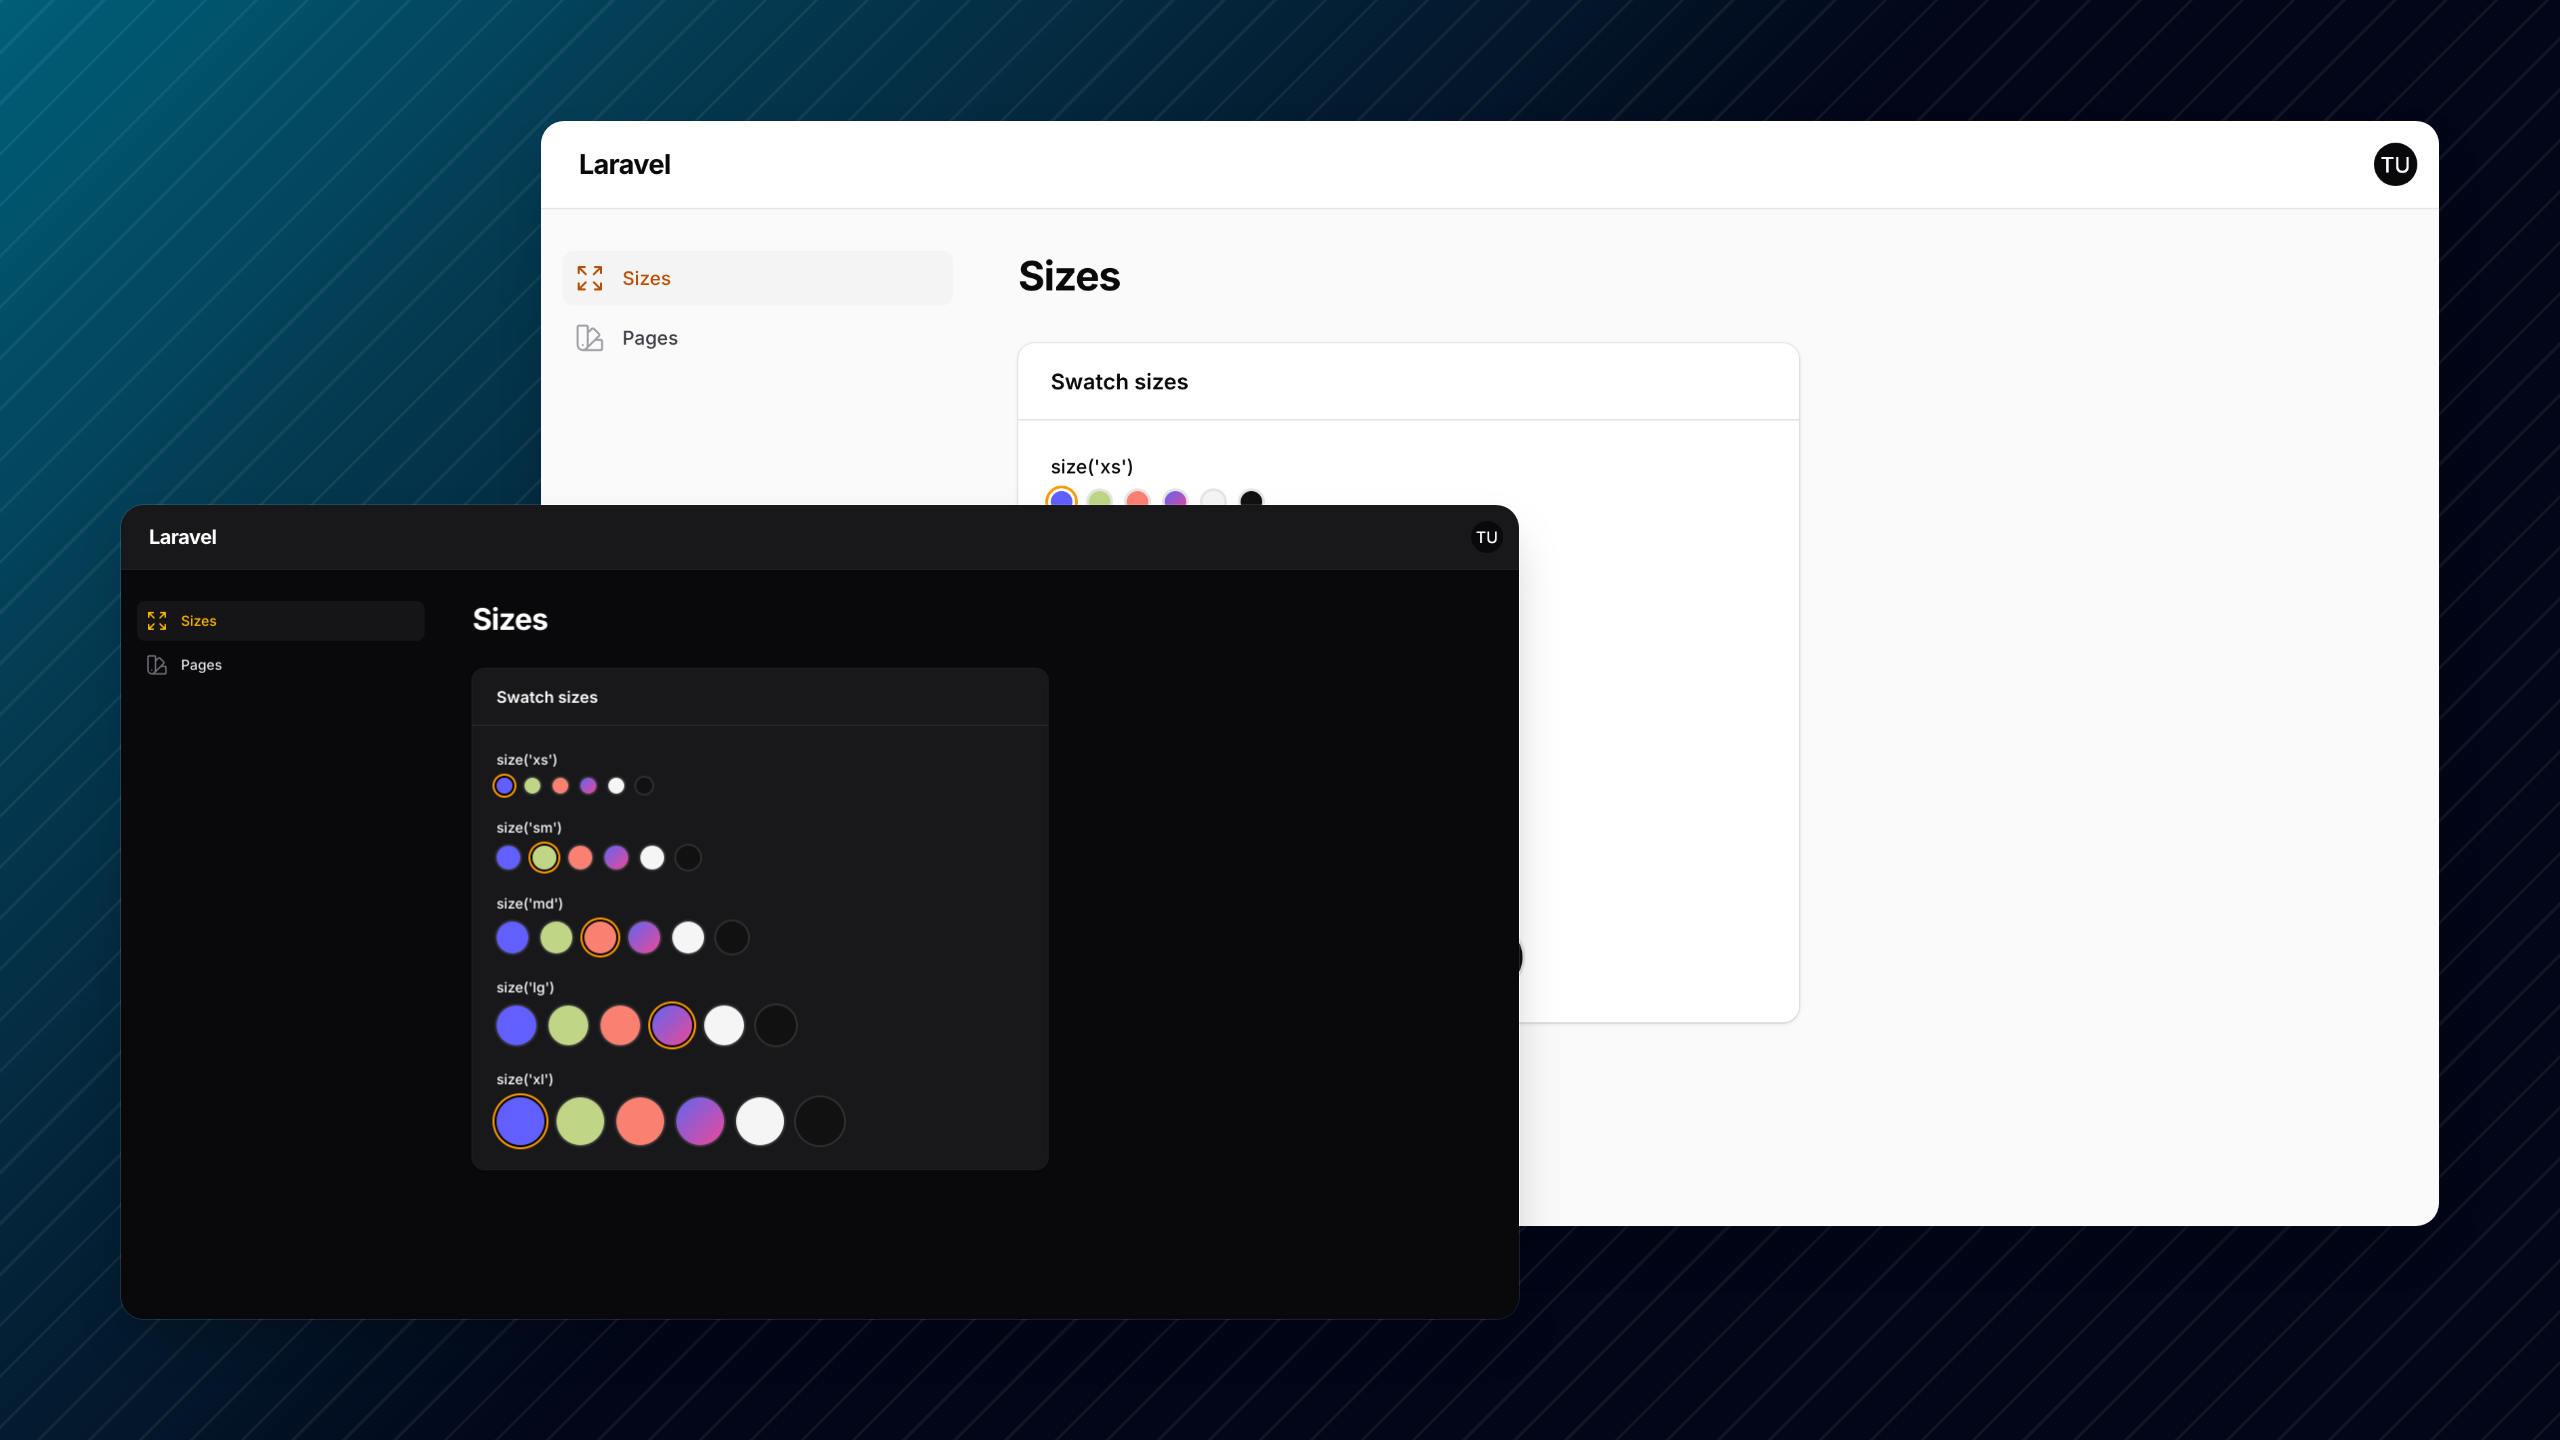
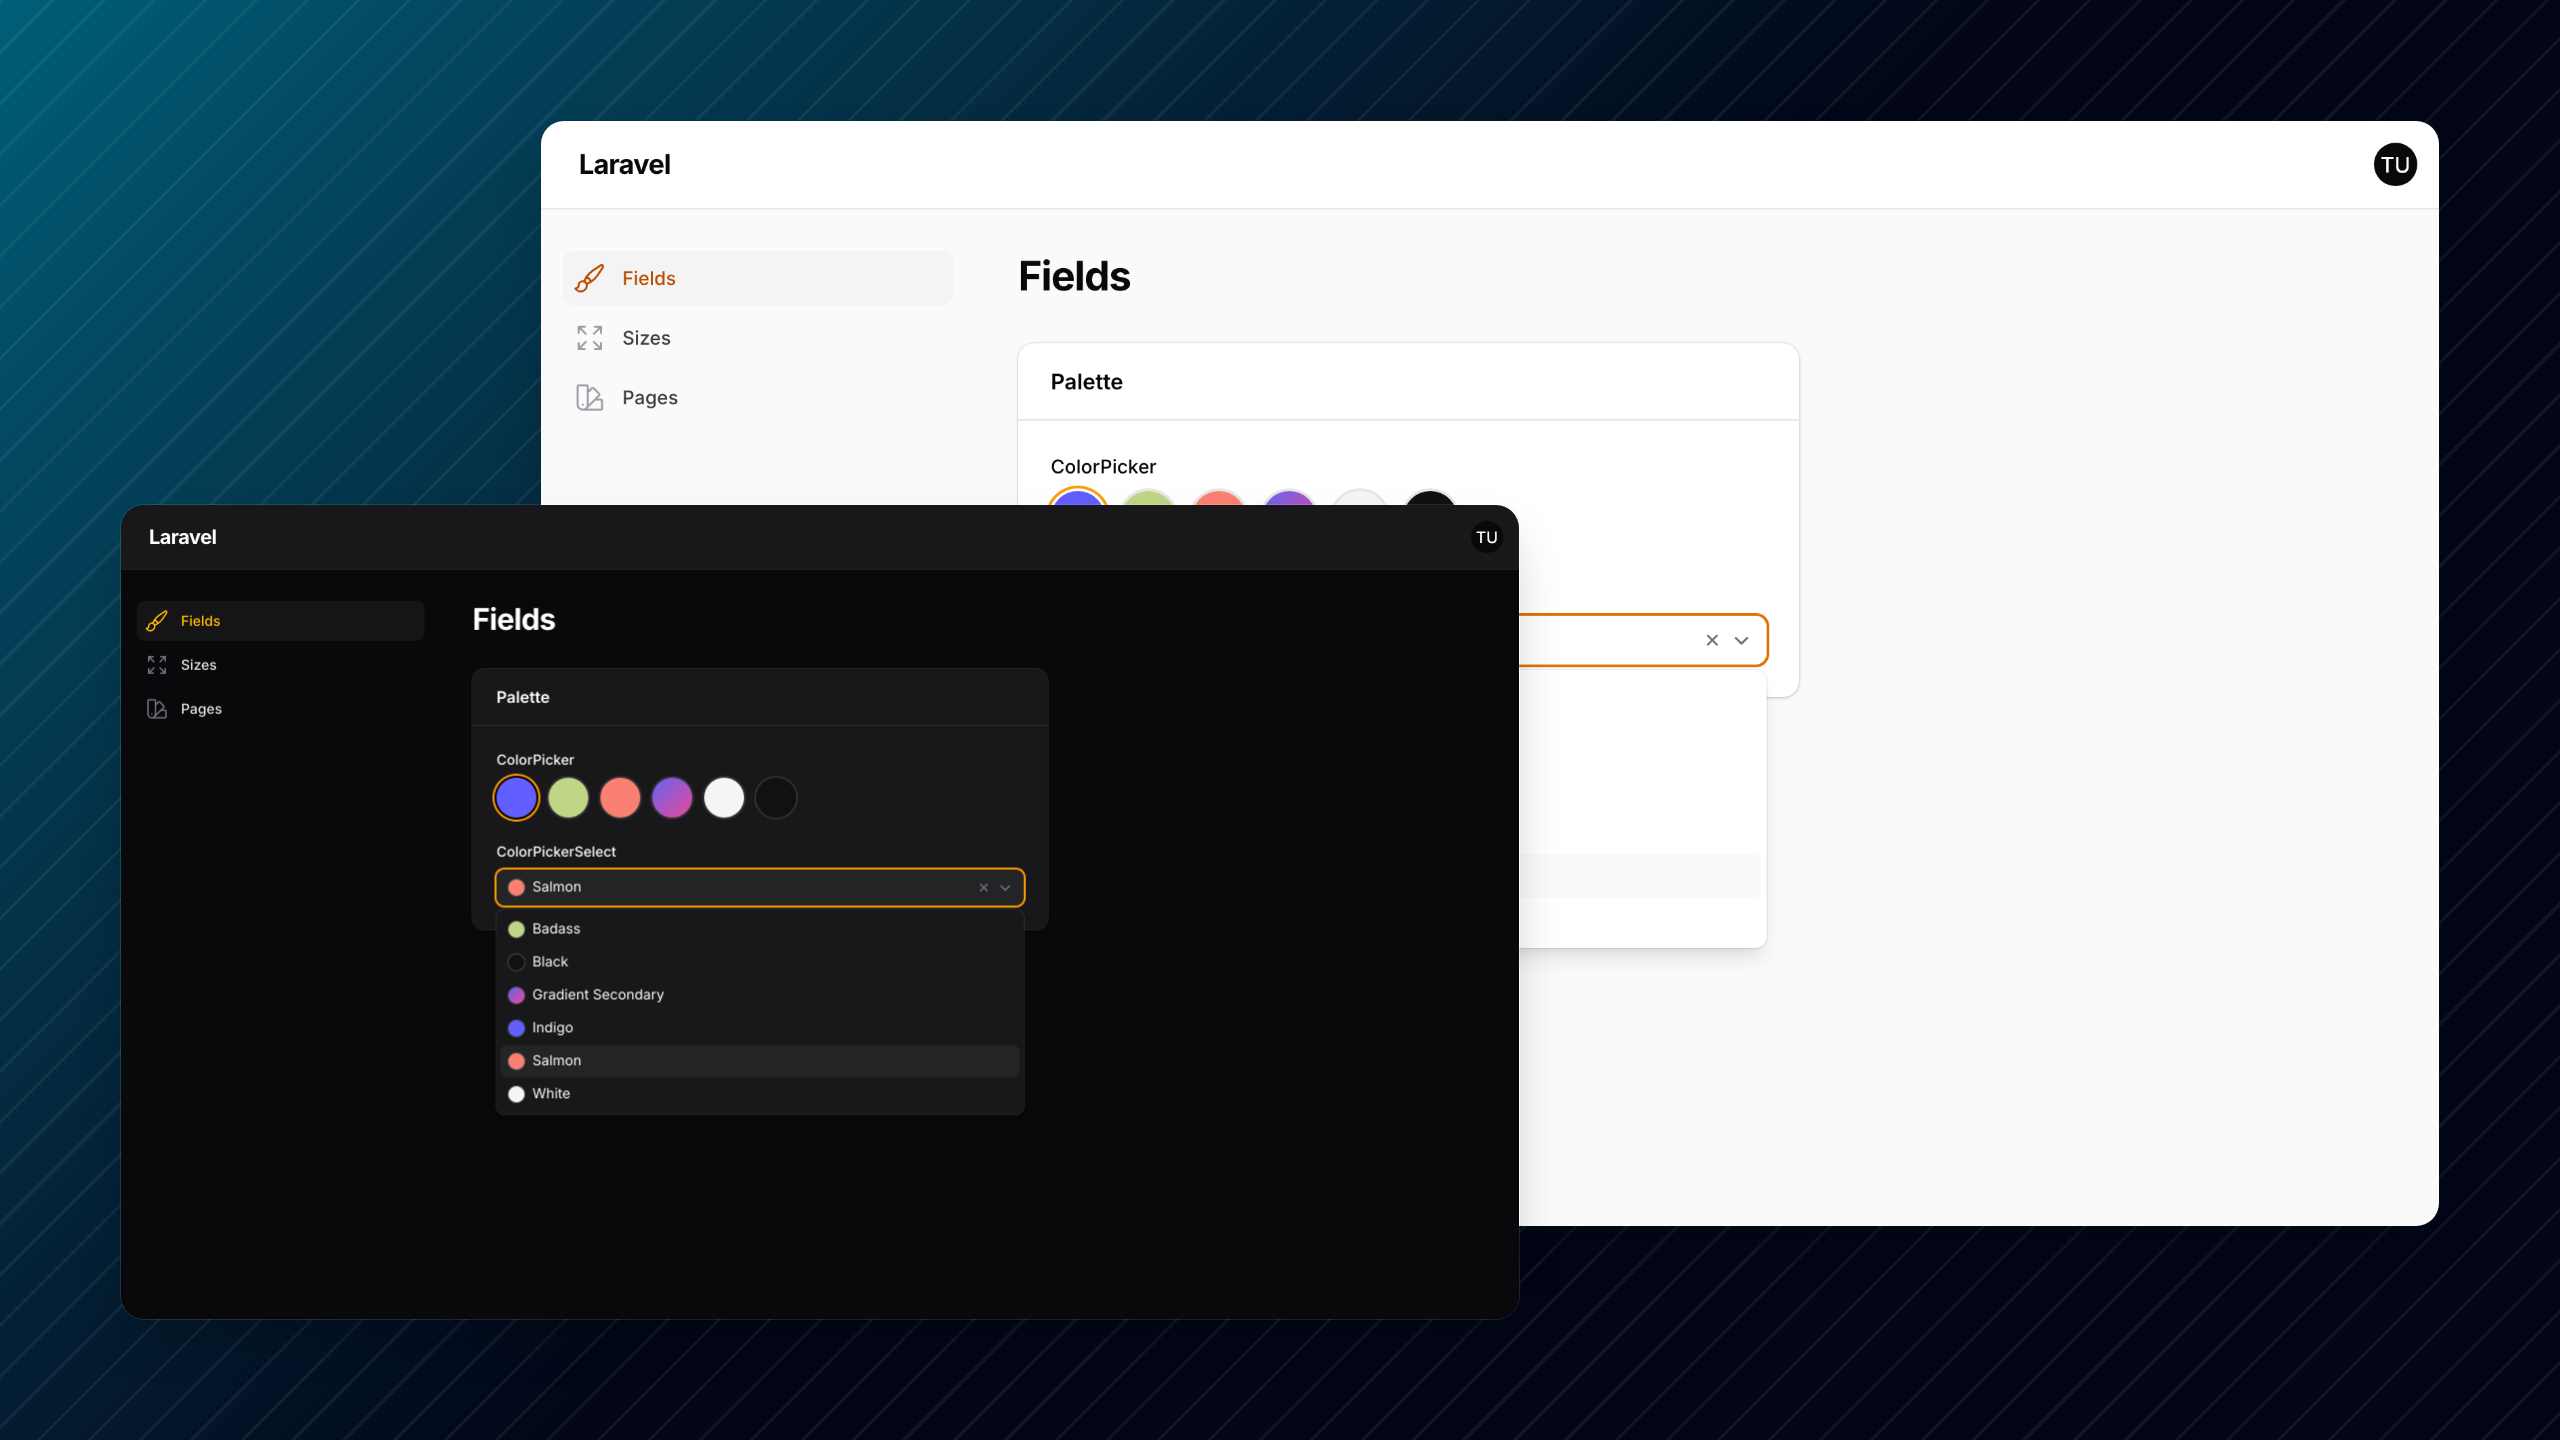
docs: show both fields in the cards and the default select in the docs

diff --git a/focus.php b/focus.php
@@ -54,11 +54,15 @@ return ScreenshotSuite::make()
             ->focus('[data-focus="sizes"]')
             ->padding(16),
 
-        // The share-image source, at the card templates' 1400x816 screenshot size. The two-up templates show it
-        // dark in slot 1 and light in slot 2, so it is captured in both themes.
-        Screenshot::make('card-sizes')
+        // The share-image source, at the card templates' 1400x816 screenshot size: the swatch picker and the select
+        // with its dropdown open, on one page. The two-up templates show it dark in slot 1 and light in slot 2, so
+        // it is captured in both themes.
+        Screenshot::make('card-fields')
             ->viewportSize(1400, 816)
-            ->visit('/admin/palette-sizes')
+            ->visit('/admin/palette-fields')
+            ->click('[data-focus="fields"] [aria-controls]')
+            ->waitFor('[data-focus="fields"] [role="listbox"]')
+            ->keepInteractionState()
             ->viewport(),
     ])
     ->cardTemplates('https://github.com/awcodes/focus-templates/tree/v2.1.0/dist')
@@ -67,20 +71,20 @@ return ScreenshotSuite::make()
         Card::make('social')
             ->template('two-up-wide')
             ->title('Palette')
-            ->screenshots(['card-sizes', 'card-sizes'])
+            ->screenshots(['card-fields', 'card-fields'])
             ->sizes([Size::OpenGraph, Size::GitHubSocial]),
 
         // The Filament plugin directory's 2560x1440 thumbnail.
         Card::make('thumbnail')
             ->template('two-up')
             ->title('Palette')
-            ->screenshots(['card-sizes', 'card-sizes'])
+            ->screenshots(['card-fields', 'card-fields'])
             ->sizes([Size::Filament]),
 
         // Unbranded 16:9 image for aw.codes, which adds its own heading: the same screenshots, no text or logo.
         Card::make('plain')
             ->template('two-up-plain')
-            ->screenshots(['card-sizes', 'card-sizes'])
+            ->screenshots(['card-fields', 'card-fields'])
             ->sizes([[2560, 1440]])
             ->scale(1),
     ]);

diff --git a/workbench/app/Filament/Pages/PaletteFields.php b/workbench/app/Filament/Pages/PaletteFields.php
@@ -1,0 +1,60 @@
+<?php
+
+declare(strict_types=1);
+
+namespace Workbench\App\Filament\Pages;
+
+use Awcodes\Palette\Forms\Components\ColorPicker;
+use Awcodes\Palette\Forms\Components\ColorPickerSelect;
+use BackedEnum;
+use Filament\Pages\Page;
+use Filament\Schemas\Components\EmbeddedSchema;
+use Filament\Schemas\Components\Section;
+use Filament\Schemas\Schema;
+use Filament\Support\Icons\Heroicon;
+use Workbench\App\Filament\Resources\Pages\PageResource;
+
+/**
+ * Both fields in one section, so each share card shows the swatch picker and the select's open dropdown together.
+ *
+ * @property-read Schema $form
+ */
+class PaletteFields extends Page
+{
+    /** @var array<string, mixed>|null */
+    public ?array $data = [];
+
+    protected static string | BackedEnum | null $navigationIcon = Heroicon::OutlinedPaintBrush;
+
+    protected static ?string $title = 'Fields';
+
+    public function mount(): void
+    {
+        $this->form->fill([
+            'picker' => 'indigo',
+            'select' => 'salmon',
+        ]);
+    }
+
+    public function form(Schema $schema): Schema
+    {
+        return $schema
+            ->statePath('data')
+            ->components([
+                Section::make('Palette')
+                    ->extraAttributes(['data-focus' => 'fields', 'class' => 'max-w-xl'])
+                    ->schema([
+                        PageResource::palette(ColorPicker::make('picker'))
+                            ->label('ColorPicker')
+                            ->size('lg'),
+                        PageResource::palette(ColorPickerSelect::make('select'))
+                            ->label('ColorPickerSelect'),
+                    ]),
+            ]);
+    }
+
+    public function content(Schema $schema): Schema
+    {
+        return $schema->components([EmbeddedSchema::make('form')]);
+    }
+}

diff --git a/workbench/app/Filament/Resources/Pages/PageResource.php b/workbench/app/Filament/Resources/Pages/PageResource.php
@@ -34,10 +34,10 @@ class PageResource extends Resource
             TextInput::make('title')->required(),
             self::palette(ColorPicker::make('color'))
                 ->extraFieldWrapperAttributes(['data-focus' => 'color-picker']),
-            self::palette(ColorPickerSelect::make('select_color')),
-            self::palette(ColorPicker::make('color_as_key'))->storeAsKey(),
-            self::palette(ColorPickerSelect::make('select_color_as_key'))->storeAsKey()
+            self::palette(ColorPickerSelect::make('select_color'))
                 ->extraFieldWrapperAttributes(['data-focus' => 'color-picker-select']),
+            self::palette(ColorPicker::make('color_as_key'))->storeAsKey(),
+            self::palette(ColorPickerSelect::make('select_color_as_key'))->storeAsKey(),
         ]);
     }
 
@@ -82,10 +82,8 @@ class PageResource extends Resource
      */
     public static function palette(ColorPicker | ColorPickerSelect | ColorEntry $component): ColorPicker | ColorPickerSelect | ColorEntry
     {
-        // A closure, because colors() documents its array as array<Color>, which rejects the hex and class values
-        // the documentation's palette mixes in. Both forms are evaluated the same way.
         return $component
-            ->colors(fn (): array => [
+            ->colors([
                 'indigo' => Color::Indigo,
                 'badass' => Color::hex('#bada55'),
                 'salmon' => '#fa8072',

diff --git a/workbench/app/Providers/Filament/AdminPanelProvider.php b/workbench/app/Providers/Filament/AdminPanelProvider.php
@@ -18,6 +18,7 @@ use Illuminate\Routing\Middleware\SubstituteBindings;
 use Illuminate\Session\Middleware\StartSession;
 use Illuminate\View\Middleware\ShareErrorsFromSession;
 use Workbench\App\Filament\Pages\Auth\Login;
+use Workbench\App\Filament\Pages\PaletteFields;
 use Workbench\App\Filament\Pages\PaletteSizes;
 use Workbench\App\Filament\Resources\Pages\PageResource;
 
@@ -28,7 +29,7 @@ class AdminPanelProvider extends PanelProvider
         return $panel->default()->id('admin')->path('admin')->login(Login::class)
             ->theme(Theme::make('workbench')->html(fn (): string => route('workbench.theme')))
             ->resources([PageResource::class])
-            ->pages([PaletteSizes::class])
+            ->pages([PaletteFields::class, PaletteSizes::class])
             ->middleware([
                 EncryptCookies::class, AddQueuedCookiesToResponse::class, StartSession::class,
                 AuthenticateSession::class, ShareErrorsFromSession::class, VerifyCsrfToken::class,

diff --git a/docs/components.md b/docs/components.md
@@ -40,8 +40,8 @@ ColorPicker::make('color')
 
 The same palette as a dropdown, with a swatch rendered beside each option. Useful where a row of swatches would be too wide, or where the palette is long enough that scanning a list is easier.
 
-![An open ColorPickerSelect dropdown listing Badass, Black, Gradient Secondary, Indigo, Salmon and White, each with its swatch, with Gradient Secondary selected](assets/color-picker-select-light.png#gh-light-mode-only)
-![An open ColorPickerSelect dropdown listing Badass, Black, Gradient Secondary, Indigo, Salmon and White, each with its swatch, with Gradient Secondary selected](assets/color-picker-select-dark.png#gh-dark-mode-only)
+![An open ColorPickerSelect dropdown listing Badass, Black, Gradient Secondary, Indigo, Salmon and White, each with its swatch, with Salmon selected](assets/color-picker-select-light.png#gh-light-mode-only)
+![An open ColorPickerSelect dropdown listing Badass, Black, Gradient Secondary, Indigo, Salmon and White, each with its swatch, with Salmon selected](assets/color-picker-select-dark.png#gh-dark-mode-only)
 
 ```php
 use Awcodes\Palette\Forms\Components\ColorPickerSelect;
